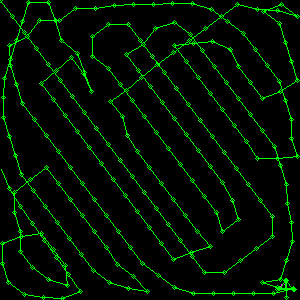
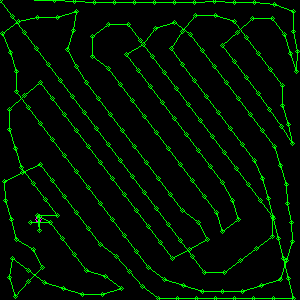
Fixed double up. changed to map for coord hist

diff --git a/src/Agent.cpp b/src/Agent.cpp
@@ -30,7 +30,7 @@ int Agent::step_counter = 0;
 
 Agent::Agent(std::string name, int x_coord, int y_coord, int field_width, int field_length, int scan_radius, int speed, std::map<std::string, Grid> *certainty_grids) {
     this->coords = std::make_pair(x_coord, y_coord);
-    this->coord_history.push_back(this->coords);
+    this->recordPosition(this->coords);
     this->name = name;
     this->field_x_width = field_width;
     this->field_y_length = field_length;
@@ -68,6 +68,7 @@ int Agent::clipRange(int lower, int upper, int value){
     return value;
 }
 
+
 double Agent::dist(std::pair<int,int> p1, std::pair<int,int> p2){
     return hypot(p1.first - p2.first, p1.second-p2.second);
 }
@@ -84,7 +85,19 @@ cv::Mat Agent::rangeMask(int x, int y, int value){
 
 
 
+void Agent::recordPosition(std::pair<int,int> p ){
+    if(this->coord_history.count(p) == 0){
+        this->coord_history.insert(std::make_pair(p, 0));
+    }
+    this->coord_history.at(p) = this->coord_history.at(p)+1;
+}
 
+int Agent::numberOfVisits(std::pair<int,int> p){
+    if(this->coord_history.count(p) == 0){
+        return 0;
+    }
+    return this->coord_history.at(p);
+}
 
 
 
@@ -193,7 +206,7 @@ std::pair<int,int> Agent::determineAction(){
             int edge_root_func = (f.x)*(f.y)*(int)(this->field_x_width-1-f.x)*(int)(this->field_y_length-1-f.y);
                 
             // int edge_root_func = (f.x)*(this->field_x_width-1-f.x)*(f.y)*(this-field_y_length-1-f.y);
-            if(dist < 2 || dist > 2*this->speed || edge_root_func == 0 || std::find(this->coord_history.begin(), this->coord_history.end(), this->point2Pair(f)) != this->coord_history.end()){
+            if(dist < 2 || dist > 2*this->speed || edge_root_func == 0 || this->numberOfVisits(this->point2Pair(f)) > 1){
                 cv::circle(priority_img, f,2,cv::Scalar(255,0,255));
                 reserve_frontiers.push_back(f);
             }else{
@@ -245,7 +258,7 @@ std::pair<int,int> Agent::determineAction(){
 
         double score = 0;
 
-        if(std::find(this->coord_history.begin(), this->coord_history.end(), this->point2Pair(f)) != this->coord_history.end()){
+        if(this->numberOfVisits(this->point2Pair(f)) > 1){
             double repeat_point_mod = -100000;
             
             score += repeat_point_mod;
@@ -451,7 +464,7 @@ std::pair<int,int> Agent::determineAction(){
         
     }
 
-    if(best_score < -90000 ||std::find(this->coord_history.begin(), this->coord_history.end(), this->point2Pair(best_point)) != this->coord_history.end() ){ //repeat point
+    if(best_score < -90000 || this->numberOfVisits(this->point2Pair(best_point)) > 1){ //repeat point
         // *this->output << "SHOULD BE DONE!" << std::endl;
         std::vector<cv::Point2i> missed_spots;
 
@@ -532,7 +545,7 @@ std::pair<int,int> Agent::moveToPosition(std::pair<int,int> pos){
 
     this->coords = interpolated_pos;
     // this->certainty_grid.at<uint8_t>(this->coords.second, this->coords.first) = scanned;
-    this->coord_history.push_back(this->coords);
+    this->recordPosition(this->coords);
     Agent::step_counter++;
 
     return interpolated_pos;

diff --git a/src/Agent.hpp b/src/Agent.hpp
@@ -20,7 +20,7 @@ class Agent
 {
 private:
     std::pair<int,int> coords;
-    std::vector<std::pair<int,int>> coord_history;
+    std::map<std::pair<int,int>, int> coord_history;
    
     std::string name;
     int field_x_width;
@@ -46,6 +46,9 @@ public:
     Agent(std::string name, int x_coord, int y_coord, int field_width, int field_length, int scan_radius, int speed, std::map<std::string, Grid> *certainty_grids);
     ~Agent();
     static int step_counter;
+
+    void recordPosition(std::pair<int,int> p);
+    int numberOfVisits(std::pair<int,int> p);
 
     std::ostream *output;
 
